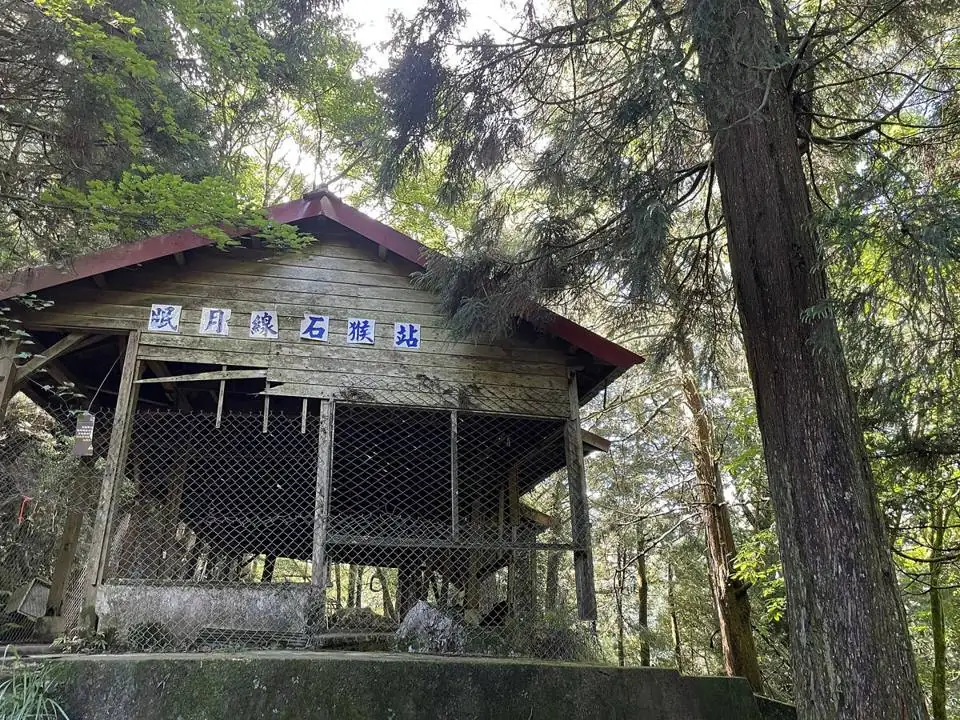
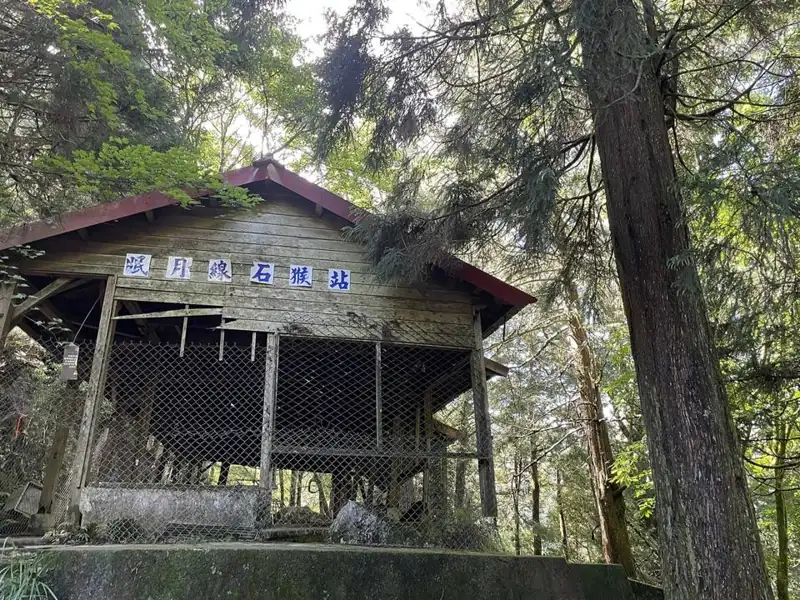
修正桌機主視覺被拉長、照片再縮小並加上模糊預覽圖

diff --git a/2026-11-mianyue/index.html b/2026-11-mianyue/index.html
@@ -14,7 +14,7 @@
 <header class="hero">
   <figure class="hero-img">
     <h1>眠月線石猴行</h1>
-    <img fetchpriority="high" src="images/hero.webp" width="800" height="1000" alt="從隧道口望出去，眠月線鐵橋接進對面的下一座隧道，一位健行者正走在橋上">
[1 lines of base64/hex data omitted]
     <figcaption>照片：Hermes Li，Wikimedia Commons，CC BY-SA 4.0</figcaption>
   </figure>
   <div class="hero-text">
@@ -160,29 +160,29 @@
 <g class="m-north"><path d="M4292 100 L4347 270 L4292 230 L4237 270 Z"/><text x="4292" y="400" text-anchor="middle">N</text></g>
 <g class="m-scale"><path d="M3712 5413 V5453 H4212 V5413"/><text x="3962" y="5383" text-anchor="middle">500 m</text></g>
 </svg><div class="lg"><span><i style="background:var(--lichen)"></i>鐵橋</span><span><i style="background:var(--ink);opacity:.55"></i>隧道、明隧道</span></div><figcaption>依 OpenStreetMap 軌道資料繪製，© OpenStreetMap 貢獻者（ODbL）。</figcaption></figure><ul class="spots">
-  <li class="spot"><div class="km">0 km<small>10:00</small></div><div><h3>沼平車站</h3><p>海拔 2,274 m，阿里山最老的車站，伐木時期的聚落中心。旁邊的沼平公園是看夕陽與雲海的好位置，第二天若有時間可以繞一下。</p></div><div class="car" data-car><div class="track"><figure class="sl"><img src="images/photo-01.webp" width="900" height="599" alt="沼平車站與後方的塔山山脈。照片：Wikimedia Commons，CC BY" loading="lazy" decoding="async"><figcaption>沼平車站與後方的塔山山脈。照片：Wikimedia Commons，CC BY</figcaption></figure><figure class="sl"><img src="images/photo-02.webp" width="900" height="599" alt="沼平車站月台與停放的蒸汽機車。照片：Wikimedia Commons，CC BY" loading="lazy" decoding="async"><figcaption>沼平車站月台與停放的蒸汽機車。照片：Wikimedia Commons，CC BY</figcaption></figure></div><button class="nav prev" type="button" aria-label="上一張">‹</button><button class="nav next" type="button" aria-label="下一張">›</button><div class="dots"><span class=on></span><span></span></div></div></li>
-  <li class="spot"><div class="km">1.7 km<small>10:30</small></div><div><h3>十字分道與眠月線入口</h3><p>從沼平車站跟著「塔山步道」指標走木棧道，不要走祝山線鐵軌（仍在營運，走鐵軌違法）。到十字分道，祝山線與眠月線在這裡分岔，壞掉的黃色柵欄就是眠月線入口，也是整條線第一個提醒你「這是廢線」的地方。</p></div><div class="car" data-car><div class="track"><figure class="sl"><img src="images/photo-03.webp" width="900" height="506" alt="入口的黃色柵欄與 921 告示。照片：Felix Filnkoessl，Wikimedia Commons，CC BY-SA 2.0" loading="lazy" decoding="async"><figcaption>入口的黃色柵欄與 921 告示。照片：Felix Filnkoessl，Wikimedia Commons，CC BY-SA 2.0</figcaption></figure><figure class="sl"><img src="images/photo-04.webp" width="900" height="600" alt="柵欄前的嚴禁進入告示，從旁邊繞過就進線。照片：Sam's Photography Life，Flickr，CC BY-NC-SA 2.0" loading="lazy" decoding="async"><figcaption>柵欄前的嚴禁進入告示，從旁邊繞過就進線。照片：Sam's Photography Life，Flickr，CC BY-NC-SA 2.0</figcaption></figure><figure class="sl"><img src="images/photo-05.webp" width="900" height="506" alt="入口段緊貼山壁的舊軌，午後起霧的樣子。照片：Gmoz.TW，Flickr，CC BY-NC 2.0" loading="lazy" decoding="async"><figcaption>入口段緊貼山壁的舊軌，午後起霧的樣子。照片：Gmoz.TW，Flickr，CC BY-NC 2.0</figcaption></figure></div><button class="nav prev" type="button" aria-label="上一張">‹</button><button class="nav next" type="button" aria-label="下一張">›</button><div class="dots"><span class=on></span><span></span><span></span></div></div></li>
-  <li class="spot"><div class="km">3.3 km<small>11:00</small></div><div><h3>大崩壁與明隧道</h3><p>921 與八八風災後留下的崩塌地，鐵道在這裡完全消失，改走山壁上的鐵鍊與踩點，需手腳並用。一次一人，走完回頭看整片崩壁很震撼。崩壁前後是有柱無牆的明隧道，光線斜射進來很好拍。</p></div><div class="car" data-car><div class="track"><figure class="sl"><img src="images/photo-06.webp" width="666" height="1000" alt="從對面看大崩壁，明隧道被崩塌地截成兩段。照片：bryan，Wikimedia Commons，CC BY-SA 2.0" loading="lazy" decoding="async"><figcaption>從對面看大崩壁，明隧道被崩塌地截成兩段。照片：bryan，Wikimedia Commons，CC BY-SA 2.0</figcaption></figure><figure class="sl"><img src="images/photo-07.webp" width="900" height="599" alt="拉近看斷開的明隧道，中間就是要手腳並用通過的地方。照片：Industrial Wales，Wikimedia Commons，CC BY-SA 2.0" loading="lazy" decoding="async"><figcaption>拉近看斷開的明隧道，中間就是要手腳並用通過的地方。照片：Industrial Wales，Wikimedia Commons，CC BY-SA 2.0</figcaption></figure></div><button class="nav prev" type="button" aria-label="上一張">‹</button><button class="nav next" type="button" aria-label="下一張">›</button><div class="dots"><span class=on></span><span></span></div></div></li>
-  <li class="spot"><div class="km">3.9–4.4 km<small>11:30</small></div><div><h3>隧道群與塔山車站</h3><p>連續幾座全黑的長隧道，頭燈必開。出來後是海拔 2,346 m 的塔山車站，木造岸式月台仍在，很多人在此紮營。塔山是鄒族的聖山，傳說是祖靈的歸處。</p></div><div class="car" data-car><div class="track"><figure class="sl"><img src="images/photo-08.webp" width="750" height="1000" alt="塔山車站的木造岸式月台。照片：Kumki995，Wikimedia Commons，CC BY-SA 4.0" loading="lazy" decoding="async"><figcaption>塔山車站的木造岸式月台。照片：Kumki995，Wikimedia Commons，CC BY-SA 4.0</figcaption></figure><figure class="sl"><img src="images/photo-09.webp" width="900" height="600" alt="隧道出口，軌道在這裡分岔。照片：Sam's Photography Life，Flickr，CC BY-NC-SA 2.0" loading="lazy" decoding="async"><figcaption>隧道出口，軌道在這裡分岔。照片：Sam's Photography Life，Flickr，CC BY-NC-SA 2.0</figcaption></figure></div><button class="nav prev" type="button" aria-label="上一張">‹</button><button class="nav next" type="button" aria-label="下一張">›</button><div class="dots"><span class=on></span><span></span></div></div></li>
-  <li class="spot"><div class="km">4.8–6.3 km<small>12:00</small></div><div><h3>高空鐵橋群</h3><p>眠月線最經典的畫面。24 座橋中以第 11、15、19 號最漂亮，橋面只剩枕木與鋼架，兩側無護欄，下面就是柳杉林。踩枕木不踩軌，濕滑時放慢。</p></div><div class="car" data-car><div class="track"><figure class="sl"><img src="images/photo-10.webp" width="562" height="1000" alt="鐵橋直直穿進柳杉林，只剩枕木與鋼架。照片：Gmoz.TW，Flickr，CC BY-NC 2.0" loading="lazy" decoding="async"><figcaption>鐵橋直直穿進柳杉林，只剩枕木與鋼架。照片：Gmoz.TW，Flickr，CC BY-NC 2.0</figcaption></figure><figure class="sl"><img src="images/photo-11.webp" width="900" height="506" alt="隊伍走在無護欄的高空鐵橋上。照片：Gmoz.TW，Flickr，CC BY-NC 2.0" loading="lazy" decoding="async"><figcaption>隊伍走在無護欄的高空鐵橋上。照片：Gmoz.TW，Flickr，CC BY-NC 2.0</figcaption></figure><figure class="sl"><img src="images/photo-12.webp" width="666" height="1000" alt="枕木間隙看得到下面，踩穩再走。照片：Sam's Photography Life，Flickr，CC BY-NC-SA 2.0" loading="lazy" decoding="async"><figcaption>枕木間隙看得到下面，踩穩再走。照片：Sam's Photography Life，Flickr，CC BY-NC-SA 2.0</figcaption></figure><figure class="sl"><img src="images/photo-13.webp" width="900" height="506" alt="橋面枕木的間距與腳步。照片：Sam's Photography Life，Flickr，CC BY-NC-SA 2.0" loading="lazy" decoding="async"><figcaption>橋面枕木的間距與腳步。照片：Sam's Photography Life，Flickr，CC BY-NC-SA 2.0</figcaption></figure><figure class="sl"><img src="images/photo-14.webp" width="666" height="1000" alt="鐵橋上的落腳點。照片：Sam's Photography Life，Flickr，CC BY-NC-SA 2.0" loading="lazy" decoding="async"><figcaption>鐵橋上的落腳點。照片：Sam's Photography Life，Flickr，CC BY-NC-SA 2.0</figcaption></figure></div><button class="nav prev" type="button" aria-label="上一張">‹</button><button class="nav next" type="button" aria-label="下一張">›</button><div class="dots"><span class=on></span><span></span><span></span><span></span><span></span></div></div></li>
[5 lines of base64/hex data omitted]
   <li class="spot"><div class="km">6.3 km<small>13:00</small></div><div><h3>第 22 號橋與唯一水源</h3><p>第 22 號橋長 51.8 公尺，是眠月線最高的高架橋，也是全線天際展望最好的地方。第 22 與 23 號橋之間有活水從山壁流下，是靠近石猴唯一的取水點。若協作不揹水，在這裡把水袋裝滿再進營地。</p></div></li>
-  <li class="spot"><div class="km">6.9 km<small>13:30</small></div><div><h3>眠月車站</h3><p>舊眠月站與檢查哨遺跡，離石猴不到 1 公里，是進營地前最後一個像樣的休息點，之後只剩第 23、24 號橋。午後起霧時像走進雲裡。</p></div><div class="car" data-car><div class="track"><figure class="sl"><img src="images/photo-15.webp" width="666" height="1000" alt="眠月站附近荒草裡的舊轉轍器。照片：Sam's Photography Life，Flickr，CC BY-NC-SA 2.0" loading="lazy" decoding="async"><figcaption>眠月站附近荒草裡的舊轉轍器。照片：Sam's Photography Life，Flickr，CC BY-NC-SA 2.0</figcaption></figure><figure class="sl"><img src="images/photo-16.webp" width="666" height="1000" alt="站區前後的彎道軌道。照片：Sam's Photography Life，Flickr，CC BY-NC-SA 2.0" loading="lazy" decoding="async"><figcaption>站區前後的彎道軌道。照片：Sam's Photography Life，Flickr，CC BY-NC-SA 2.0</figcaption></figure><figure class="sl"><img src="images/photo-17.webp" width="900" height="506" alt="柳杉林中的直線段。照片：Gmoz.TW，Flickr，CC BY-NC 2.0" loading="lazy" decoding="async"><figcaption>柳杉林中的直線段。照片：Gmoz.TW，Flickr，CC BY-NC 2.0</figcaption></figure></div><button class="nav prev" type="button" aria-label="上一張">‹</button><button class="nav next" type="button" aria-label="下一張">›</button><div class="dots"><span class=on></span><span></span><span></span></div></div></li>
-  <li class="spot"><div class="km">7.8 km<small>14:00</small></div><div><h3>石猴車站與石猴岩</h3><p>終點，海拔 2,318 m。站名來自一塊像猴子的巨岩，921 地震時猴頭被落石擊中滾入清水溪，現在只剩身體。車站建物已傾斜、廁所坍塌，紮營請用旁邊的觀景台。整區在柳杉林裡沒有展望，觀景台當年是看石猴岩用的，現在只剩小桌椅；想看天色回第 22 號橋。</p></div><div class="car" data-car><div class="track"><figure class="sl"><img src="images/photo-18.webp" width="960" height="720" alt="現在的石猴車站，木造站房旁就是繼續延伸的舊軌。照片：Cathy200008，Wikimedia Commons，CC BY-SA 4.0" loading="lazy" decoding="async"><figcaption>現在的石猴車站，木造站房旁就是繼續延伸的舊軌。照片：Cathy200008，Wikimedia Commons，CC BY-SA 4.0</figcaption></figure><figure class="sl"><img src="images/photo-19.webp" width="960" height="720" alt="站房上手貼的「眠月線石猴站」站名。照片：Cathy200008，Wikimedia Commons，CC BY-SA 4.0" loading="lazy" decoding="async"><figcaption>站房上手貼的「眠月線石猴站」站名。照片：Cathy200008，Wikimedia Commons，CC BY-SA 4.0</figcaption></figure><figure class="sl"><img src="images/photo-20.webp" width="800" height="600" alt="1988 年的石猴岩，猴頭當時還在。照片：Teng Feng-Chou，Wikimedia Commons，CC BY-SA 3.0" loading="lazy" decoding="async"><figcaption>1988 年的石猴岩，猴頭當時還在。照片：Teng Feng-Chou，Wikimedia Commons，CC BY-SA 3.0</figcaption></figure></div><button class="nav prev" type="button" aria-label="上一張">‹</button><button class="nav next" type="button" aria-label="下一張">›</button><div class="dots"><span class=on></span><span></span><span></span></div></div></li>
[2 lines of base64/hex data omitted]
 </ul></div>
 
 <h2 id="story" class="plain">背景故事</h2>
 
 <h3>塔山線到眠月線：一條運木鐵道的興衰</h3>
-<p>眠月線原名塔山線，1913 年起開發、1915 年通車，是日治時期為運出阿里山巨木而闢建的阿里山鐵路支線，起自舊阿里山站（今沼平車站），經塔山站、眠月站，終點石猴站，全長約 9.3 公里。1978 年伐木結束後一度荒廢，1983 年整理成觀光步道對外開放。1999 年 921 大地震造成路基多處崩塌，修復後短暫恢復通車，卻又遇上 2009 年八八風災二度重創，主管機關評估後決定不再修復，從此封閉至今，只留下 12 座隧道、24 座橋樑與滿山芒草見證這段鐵道歲月。</p><div class="car single"><figure class="sl"><img src="images/photo-21.webp" width="900" height="598" alt="眠月線舊時的軌道與林間景色。照片：Jāzeps Baško，Wikimedia Commons，CC BY 2.0" loading="lazy" decoding="async"><figcaption>眠月線舊時的軌道與林間景色。照片：Jāzeps Baško，Wikimedia Commons，CC BY 2.0</figcaption></figure></div>
[1 lines of base64/hex data omitted]
 
 <h3>「眠月」二字的由來</h3>
-<p>眠月站附近曾有一顆平整的巨石。1906 年，日本森林學家河合鈰太郎為勘查阿里山林場來到此地，夜宿在這塊巨石上，抬頭見明月高掛樹梢，心醉不已。1919 年他再度造訪，眼前卻已是砍伐殆盡的林地，古木不再，他感慨寫下「斧斤走入翠微岑，伐盡千年古木林，枕石席苔散無跡，鳴泉當作舊時音」，並將此地命名為「眠月」，紀念當年月下露宿的美好時光——也留下一絲對伐木開發的複雜心情。</p><div class="car single"><figure class="sl"><img src="images/photo-22.webp" width="249" height="347" alt="命名「眠月」的森林學家河合鈰太郎。照片：《東京名古屋現代人物誌》，國立國會圖書館藏，公有領域" loading="lazy" style="object-fit:contain;background:#e7e2d8"><figcaption>命名「眠月」的森林學家河合鈰太郎。照片：《東京名古屋現代人物誌》，國立國會圖書館藏，公有領域</figcaption></figure></div>
[1 lines of base64/hex data omitted]
 
 <h3>塔山：鄒族的聖山</h3>
-<p>塔山是鄒族心目中的聖山，傳說人死後，善良的靈魂會回到塔山棲息，作惡的靈魂則被打入一旁的小塔山，因此鄒族人向來不輕易靠近這座山，以示對祖靈與神明的敬畏。也有一則鄒族傳說，講述陰間塔山的男子與陽世女子相戀，兩人克服陰陽阻隔決定共組家庭、生兒育女，往來陰陽兩界直到白頭偕老。健行經過塔山車站時，不妨想想這座山在鄒族文化裡的重量。</p><div class="car single"><figure class="sl"><img src="images/photo-23.webp" width="900" height="599" alt="鄒族聖山塔山（大塔山）。照片：lienyuan lee，Wikimedia Commons，CC BY 3.0" loading="lazy" decoding="async"><figcaption>鄒族聖山塔山（大塔山）。照片：lienyuan lee，Wikimedia Commons，CC BY 3.0</figcaption></figure></div>
[1 lines of base64/hex data omitted]
 
 <h3>石猴岩：被鋸斷手臂與震落頭顱的巨猴</h3>
-<p>眠月線終點旁曾矗立一塊高約 31 公尺、直徑約 9 公尺的巨岩，形似一隻蹲坐凝望遠方的獼猴，因此得名「石猴」，換個角度看又像達摩盤坐，也有人稱它「達摩岩」。相傳石猴下方原本還有一段突起如猴臂的岩石，日本人開闢鐵路時將它鋸斷，之後曾有獵人在深夜聽見石猴一帶傳出猴子的淒厲哀鳴，故事因此更添神秘色彩。1999 年 921 大地震，石猴的頭部應聲斷裂滾落清水溪，整座岩體一夜矮了三、四公尺，只留下身軀蹲坐至今，成為這條廢線最讓人唏噓的地標。</p><div class="car single"><figure class="sl"><img src="images/photo-24.webp" width="644" height="900" alt="1934 年完整的石猴岩，猴頭尚未斷落。照片：桑子政彥、臺灣寫真大觀社，國家攝影文化中心，公有領域" loading="lazy" style="object-fit:contain;background:#e7e2d8"><figcaption>1934 年完整的石猴岩，猴頭尚未斷落。照片：桑子政彥、臺灣寫真大觀社，國家攝影文化中心，公有領域</figcaption></figure></div>
[1 lines of base64/hex data omitted]
 
 <h2 id="hsr" class="plain">高鐵時刻表</h2>
 <p class="caption">2026/2/2 起常態時刻表，只列每日行駛且停靠嘉義的班次；標示「加班車」者僅特定日行駛，訂票時再確認。台北–嘉義標準車廂對號 1,080 元、自由座 1,045 元，早鳥最低 65 折。</p>

diff --git a/assets/trip.css b/assets/trip.css
@@ -28,7 +28,7 @@ a{color:var(--cedar);text-underline-offset:3px}
 
 .hero{display:grid;grid-template-columns:1fr minmax(300px,420px);gap:48px;align-items:end;padding-block:48px 40px}
 .hero-img{margin:0;position:relative;container-type:inline-size;order:2}
-.hero-img img{display:block;width:100%;aspect-ratio:4/5;object-fit:cover;border-radius:6px}
+.hero-img img{display:block;width:100%;height:auto;aspect-ratio:4/5;object-fit:cover;border-radius:6px}
 .hero-img::after{content:"";position:absolute;inset:0 0 auto 0;aspect-ratio:4/5;border-radius:6px;background:linear-gradient(to right,rgba(10,14,10,.5),rgba(10,14,10,0) 30%);pointer-events:none}
 .hero-img h1{position:absolute;z-index:1;top:6%;left:3.5%;writing-mode:vertical-rl;font-size:10cqw;font-weight:900;letter-spacing:.16em;line-height:1;color:#fff;text-shadow:0 2px 16px rgba(0,0,0,.55)}
 .hero-img figcaption{font-size:.72rem;color:var(--ink2);margin-top:6px}
@@ -84,7 +84,7 @@ td.note{white-space:normal;min-width:180px}
 
 .spots{list-style:none;padding:0 0 0 36px;margin:20px 0 0;display:grid;gap:18px;position:relative}
 .spots::before{left:4px;top:24px;bottom:24px}
-.spot{position:relative;background:var(--surface);border:1px solid var(--line);border-radius:8px;padding:16px 18px;display:grid;grid-template-columns:72px minmax(0,1fr);gap:14px;align-items:start}
+.spot{position:relative;background:var(--surface);border:1px solid var(--line);border-radius:8px;padding:16px 18px;display:grid;grid-template-columns:88px minmax(0,1fr);gap:14px;align-items:start}
 .spot>*{min-width:0}
 .spot::before{content:"";position:absolute;left:-36px;top:20px;width:22px;height:22px;border-radius:50%;background:var(--surface);border:4px solid var(--cedar)}
 .spot:first-child::before,.spot:last-child::before{background:var(--signal);border-color:var(--signal);box-shadow:0 0 0 4px var(--signal-bg)}
@@ -136,6 +136,7 @@ td.note{white-space:normal;min-width:180px}
 .car .dots span.on{background:var(--signal);width:18px;border-radius:4px}
 .car.single{margin-top:16px;max-width:720px}
 .car.single .sl img{aspect-ratio:auto;max-height:520px}
+.hero-img img,.car .sl img,.trip img{background-size:cover;background-position:center}
 
 .pack{display:grid;grid-template-columns:repeat(auto-fit,minmax(250px,1fr));gap:14px;margin-top:16px}
 .box{background:var(--surface);border:1px solid var(--line);border-radius:8px;padding:16px 18px}

diff --git a/index.html b/index.html
@@ -18,7 +18,7 @@
 
 <ul class="trips">
   <li class="trip"><a href="2026-11-mianyue/">
-    <img src="2026-11-mianyue/images/hero.webp" width="800" height="1000" alt="">
+    <img src="2026-11-mianyue/images/hero.webp" width="720" height="900" alt="">
     <div>
       <div class="date">2026/11/4 – 11/6</div>
       <h2>眠月線石猴行</h2>
